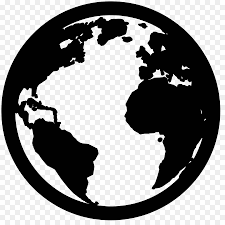
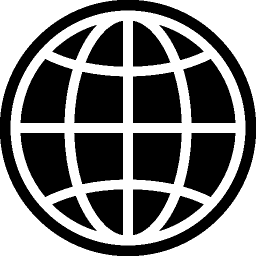
fix

diff --git a/src/page/Header/index.js b/src/page/Header/index.js
@@ -1,4 +1,4 @@
-import React from 'react';
+import React, { useState, useEffect } from 'react';
 import cls from './style.module.scss'
 import { useSelector } from 'react-redux'
 import Input from '../../components/Input';
@@ -8,6 +8,8 @@ import { withRouter } from "react-router";
 import SelectorCode from '../../components/SelectorCode';
 import { useTranslation } from 'react-i18next';
 import PropTypes from 'prop-types';
+import defaultImg from '../../img/51_full.jpg'
+import logoImg from '../../img/countries.png'
 
 const Header = ({ location }) => {
     const { t } = useTranslation()
@@ -15,15 +17,21 @@ const Header = ({ location }) => {
         ignoreQueryPrefix: true,
     })
     const photoHeader = useSelector((state) => state.countries.photoHeader)
+    const [src,setSrc] = useState(photoHeader)
+    useEffect(()=>{
+        setSrc(photoHeader)
+    },[photoHeader])
     return (
         <div className={cls.header}>
-            <img className={cls.header_img} src={photoHeader} alt='header logo' />
+            <img className={cls.header_img} src={src} onError={(e,a)=>{
+                setSrc(defaultImg)
+                }} alt='header logo' />
             <div className={cls.header_conteiner} id="back-to-top-anchor">
                 <div className={cls.header_content}>
                     <div className={cls.container_logo_title}>
                         <div className={cls.header_content_log}>
                             <div className={cls.logo_content}>
-                                <img src={'https://ru.seaicons.com/wp-content/uploads/2015/06/Maps-Globe-Filled-icon.png'} alt='logo' />
+                                <img src={logoImg} alt='logo' />
                             </div>
                         </div>
                         <div className={cls.header_content_menu}>

diff --git a/src/components/Selector/index.js b/src/components/Selector/index.js
@@ -1,31 +1,9 @@
 import React, { useState } from 'react';
-import { makeStyles, createStyles } from '@material-ui/core/styles';
 import { FormControl, Select, MenuItem } from '@material-ui/core';
 import i18n from 'i18next';
 import Language from '../../helpers/language';
 
-
-const useStyles = makeStyles((theme) =>
-    createStyles({
-        root: {
-            position: 'fixed',
-            bottom: theme.spacing(2),
-            right: theme.spacing(2),
-        },
-        paper: {
-            padding: theme.spacing(2),
-            textAlign: 'center',
-            color: theme.palette.text.secondary,
-            'margin-top': 20,
-            'margin-left': 20,
-            width: 150,
-            height: 150,
-        },
-    }),
-);
-
 const Selector = () => {
-    const classes = useStyles();
     const [local, setLocal] = useState(Language());
     const handleChange = (event) => {
         setLocal(event.target.value);
@@ -34,7 +12,7 @@ const Selector = () => {
     };
 
     return (
-        <FormControl variant="outlined" className={classes.formControl}>
+        <FormControl variant="outlined" >
             <Select
                 labelId="demo-simple-select-outlined-label"
                 id="demo-simple-select-outlined"
